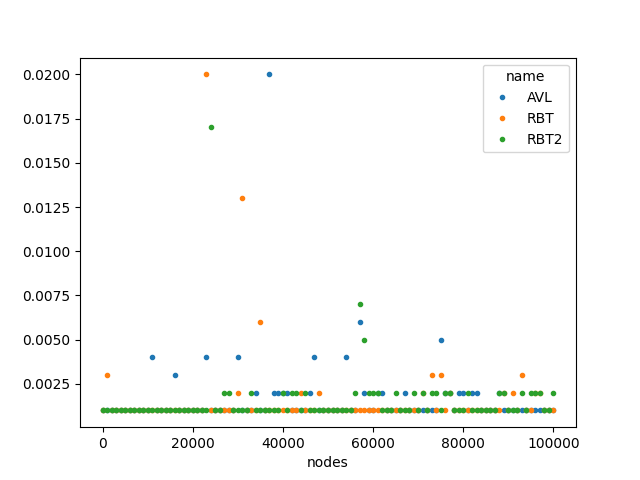
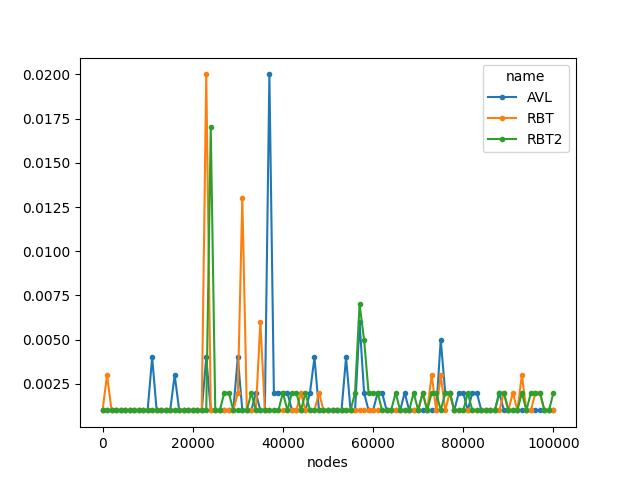
Add syntax highlight in README

diff --git a/benchmark/plot/plot.py b/benchmark/plot/plot.py
@@ -39,17 +39,17 @@ if __name__ == "__main__":
     # Exclude the BST from search graph
 
     search_avg_filtered = search_avg.drop(columns="BST")
-    fig = search_avg_filtered.plot(style='.').get_figure()
+    fig = search_avg_filtered.plot(style='.-').get_figure()
     fig.savefig("search_avg_filtered.png")
 
     search_worst_filtered = search_worst.drop(columns="BST")
-    fig = search_worst_filtered.plot(style='.').get_figure()
+    fig = search_worst_filtered.plot(style='.-').get_figure()
     fig.savefig("search_worst_filtered.png")
 
     # Worst time (log) (Excluding BST)
 
-    fig = search_worst_filtered.plot(style='.', logy=True).get_figure()
+    fig = search_worst_filtered.plot(style='.-', logy=True).get_figure()
     fig.savefig("search_worst_log_filtered.png")
 
-    fig = search_avg_filtered.plot(style='.', logy=True).get_figure()
+    fig = search_avg_filtered.plot(style='.-', logy=True).get_figure()
     fig.savefig("search_avg_log_filtered.png")

diff --git a/red-black-tree/src/main.c b/red-black-tree/src/main.c
@@ -32,7 +32,8 @@ int main(int argc, char* argv[]) {
     RBT_insert(intTree, 15, &new_value, sizeof(new_value));
     RBT_print_node(intTree, 15);
 
-    RBT_export_dot(intTree, "intTree2", RBT_TRUE);
+    RBT_export_dot(intTree, "intTreePres1", RBT_TRUE);
+    RBT_export_dot(intTree, "intTreePres2", RBT_FALSE);
 
     RBT_destroy(intTree);
 

diff --git a/README.md b/README.md
@@ -11,7 +11,7 @@ This structure is intended to be generic (the data and not the keys).
 There is a a generic form to create a new tree and wrappers around it.
 For example:
 
-```
+```c
 // &print_data is a pointer to the function who knows how to cast your data
 // in order to print it
 RBT_new(&print_data); 
@@ -36,7 +36,7 @@ make
 ## API
 
 Define a function to print the type of your data
-```
+```c
 void print_data(Node_t *pNode){
     printf("Data: %d\n", *(int *)pNode->data);
 }
@@ -44,43 +44,43 @@ void print_data(Node_t *pNode){
 
 Create a custom tree. You need to pass the function pointer to print the data
 that you are going to use.
-```
+```c
 RBT_t *newTree = RBT_new(&print_data);
 ```
 
 Or use some of the predefined wrappers around the C types
-```
+```c
 RBT_t *intTree = RBT_new_int();
 ```
 
 Insert a new node in the tree by key with a value
-```
+```c
 int new_value = 10;
 RBT_insert(intTree, 1, &new_value, sizeof(new_value));
 ```
 
 Delete a node by passing the node
-```
+```c
 RBT_delete(intTree, pNode);
 ```
 
 Search a node by key
-```
+```c
 RBT_search(newTree, 3);
 ```
 
 Print a node by key
-```
+```c
 RBT_print_node(newTree, 3);
 ```
 
 Generate a DOT file (Graphviz) from the tree
-```
+```c
 RBT_export_dot(newTree, "newTree");
 ```
 
 Clear the whole tree
-```
+```c
 RBT_destroy(newTree);
 ```
 
